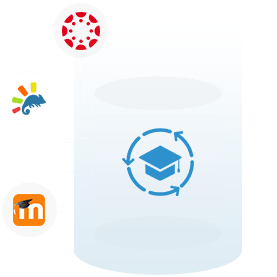
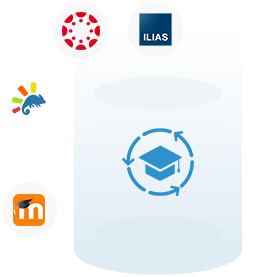
Add landing page for ILIAS

Changed region(s): [[0.491, 0.0289, 0.6354, 0.1733], [0.0578, 0.722, 0.0866, 0.7509]]

diff --git a/en/lms/ilias/installation.md b/en/lms/ilias/installation.md
@@ -1,0 +1,145 @@
+---
+title: Installation Guide
+onpagelink: installation
+weight: 3
+
+---
+
+### Installation Instructions
+
+#### Install ILIAS on Ubuntu 18.04 LTS with Nginx
+
+#### Install Nginx Web Server
+
+Nginx is the most popular and secure web server. In order to install Nginx, use the following command
+
+ ```
+ sudo apt install nginx 
+```
+
+Once the Nginx is install, configure the domain and restart the Nginx by using the following command
+
+ ```
+ sudo service nginx restart 
+```
+
+#### Install MySQL Server
+
+Next, need to install database Server, use the following command to install MySql server
+
+ ```
+sudo apt-get update;  
+sudo apt-get install mysql-server; 
+mysql_secure_installation 
+```
+
+Once, the database server is installed, use the following command to restart MySql server
+
+ ```
+sudo service mysql restart 
+```
+
+### Install PHP 7.2 and Related Modules
+
+Run commands to add a third-party PPA to Ubuntu.
+
+ ```
+sudo apt-get install software-properties-common
+sudo add-apt-repository ppa:ondrej/php
+sudo apt update
+```
+
+Now, run the following command to install PHP 7.2 and related modules.
+
+ ```
+sudo apt install php7.2-fpm php7.2-common php7.2-sqlite3 php7.2-mysql php7.2-gmp php7.2-curl php7.2-intl php7.2-mbstring php7.2-xmlrpc php7.2-gd php7.2-bcmath php7.2-xml php7.2-cli php7.2-zip
+```
+
+#### Create Database for ILIAS
+
+Now, you have installed all the required software and the next step is to login to mysql server and create ILIAS database. Use following command to create database. Change with your database name.
+
+ ```
+CREATE DATABASE ilias; 
+```
+
+Create a database user called "ilias" with new password. and granted user full access to the database by running the following commands. Change with your desired database user and with your desired password.
+
+ ```
+CREATE USER 'iliasuser'@'localhost' IDENTIFIED BY 'password_here'; 
+GRANT ALL ON ilias.* TO 'iliasuser'@'localhost' WITH GRANT OPTION;
+FLUSH PRIVILEGES; EXIT;
+```
+
+#### Download ILIAS
+
+Next, run the commands below to change directory and download ILIAS.
+
+ ```
+cd /var/www/html
+sudo git clone https://github.com/ILIAS-eLearning/ILIAS.git ilias
+
+```
+
+Command to create directory outside the root directory of ilias and set permissions.
+
+ ```
+sudo mkdir /var/www/html/extras
+sudo chown -R www-data:www-data /var/www/html/extras/
+```
+
+Run the following commands to set permissions.
+
+ ```
+sudo chown -R www-data:www-data /var/www/html/ilias/
+sudo chmod -R 755 /var/www/html/ilias/
+```
+
+Create Nginx config file for ILIAS site.
+
+ ```
+sudo nano /etc/nginx/sites-available/ilias
+
+```
+
+Add below code into it and save the file.
+
+ ```
+server {
+    listen 80;
+    listen [::]:80;
+    root /var/www/html/ilias;
+    index  index.php index.html index.htm;
+    server_name  example.com;
+
+    client_max_body_size 100M;
+    autoindex off;
+    location / {
+        try_files $uri $uri/ =404;
+    }
+
+    location ~ [^/].php(/|$) {
+        include snippets/fastcgi-php.conf;
+        fastcgi_pass unix:/run/php/php7.2-fpm.sock;
+        fastcgi_param SCRIPT_FILENAME $document_root$fastcgi_script_name;
+        include fastcgi_params;
+    }
+}
+
+```
+
+Create symlink to enable newly created site.
+
+ ```
+sudo ln -s /etc/nginx/sites-available/ilias /etc/nginx/sites-enabled/
+
+```
+
+Restart Nginx web server.
+
+ ```
+sudo systemctl restart nginx
+
+```
+
+Now, open browser and type http://example.com to access the site. Follow installation wizard to install ILIAS.

diff --git a/en/lms/ilias/_index.md b/en/lms/ilias/_index.md
@@ -1,0 +1,32 @@
+---
+title: ILIAS | Free And Open Source LMS For Business
+description: Free e-learning management system for creating an online learning platform. ILIAS is an open source e-learning system and an ideal LMS for business.
+keywords: lms for schools, lms for business, lms for higher education, web based e-learning system, free e-learning management system
+singlepageh1title: Web-Based E-learning System For Online Learning Websites
+singlepageh2title: Versatile and free e-learning management system for building educational platforms. Supports multiple authentication protocols and communication tools.
+Shortdescriptionlistingpage: ILIAS is another free and open source LMS for business, schools, and higher education. Modern interface with rich communication tools for collaboration.
+linktitle: ILIAS
+Imagetext:  LMS For Business
+draft: false
+weight: 4
+layout: "single"
+GithubLink: https://github.com/ILIAS-eLearning/ILIAS
+HomePage_TitleText: LMS For Business
+
+ListingPage_MenuImage_TitleText: 
+ListingPage_MenuImage_AltText: ILIAS - LMS For Business
+ListingPage_Link_TitleText: Explore ILIAS
+
+SinglePage_HeaderImage_TitleText: LMS For Business
+SinglePage_HeaderImage_AltText: LMS For Business
+SinglePage_MenuImage_TitleText: LMS For Business
+SinglePage_MenuImage_AltText: LMS For Business
+
+
+---
+
+ILIAS is a free e-learning management system. It is a reliable, secure, and scalable learning management system (LMS). ILIAS is a suitable LMS for business and LMS for schools. It's also a great LMS for higher education and training facilities. It can be used to set up a learning platform for any size organization. It’s written in PHP and uses MySQL to store data. The license for this web-based e-learning system is GPL-3.0. It is cross-platform and can be installed on Linux, Mac, and Windows operating systems. Plugins are supported by ILIAS, and users can install them to extend the functionality. 
+
+ILIAS has been operating since 1998 and has offered several excellent features that cater to the needs of modern e-learning systems. It has a number of features, including learning content management, course management, certificate management, communication tools, and so on. Education Management, Schools, and Higher Education are just a few of the industries that might benefit from ILIAS. It has implemented standards for learning materials such as SCORM 1.2, SCORM 2004, LOM metadata, IMS QTI, and IMS LTI.
+
+Any application's user management is essential. ILIAS includes a robust module for managing users and their roles. It also supports a variety of user authentication protocols, including CAS, LDAP, SOAP, RADIUS, and Shibboleth. It also allows for payment integration with PayPal. ILIAS offers various tools for communication including Internal Messaging, Chat, Forum, and Podcasting.

diff --git a/en/lms/ilias/faqs.md b/en/lms/ilias/faqs.md
@@ -1,0 +1,17 @@
+---
+title: FAQs
+onpagelink: faqs
+weight: 4
+
+---
+
+### FAQs
+
+### What is ILIAS exactly?
+ILIAS is a free and open source learning management system (LMS). It includes all the features that meet the requirements of modern LMS such as course management, learning modules, tests and assessments, and many more.
+### Does ILIAS support plugins?
+Yes, ILIAS supports plugins and you can find several extensions. However, you can develop your plugins for your custom requirements. 
+### Is ILIAS open source?
+ILIAS is an open source learning management system (LMS). The source code of ILIAS learning solution is available on [Github](https://github.com/ILIAS-eLearning/ILIAS).
+### Does ILIAS comply with standards?
+Yes, ILIAS meets the standards including SCORM 1.2, SCORM 2004, LOM metadata, IMS QTI, XML, CSV, and IMS LTI.

diff --git a/en/lms/ilias/features.md b/en/lms/ilias/features.md
@@ -1,0 +1,23 @@
+---
+title: Features
+onpagelink: features
+weight: 2
+
+---
+
+### Features
+
+Following are the key features of ILIAS:
+
+- Free and open source
+- Learning content management
+- Course management
+- Assessment and evaluation
+- Certificate management
+- Communication tools
+- Learning content/authoring
+- Payment gateway
+- Support multiple authentication modules
+- User management
+- Support plugins
+ 

diff --git a/en/lms/ilias/explore.md b/en/lms/ilias/explore.md
@@ -1,0 +1,16 @@
+---
+title: Explore
+onpagelink: explore
+weight: 5
+
+---
+
+### Explore
+
+You may find the following links relevant:
+
+- [Top Open Source LMS Software](https://products.containerize.com/lms/)
+- [Moodle](https://products.containerize.com/lms/moodle/)
+- [Chamilo](https://products.containerize.com/lms/chamilo/)
+- [Canvas](https://products.containerize.com/lms/canvas/)
+ 

diff --git a/en/lms/ilias/requirements.md b/en/lms/ilias/requirements.md
@@ -1,0 +1,15 @@
+---
+title: System Requirements
+onpagelink: requirements
+weight: 1
+
+---
+
+### System Requirements
+
+In order to install ILIAS, you must have the following softwares:
+
+- Nginx / Apache
+- PHP 7.2 or greater
+- MySQL 5.6 or greater
+ 
